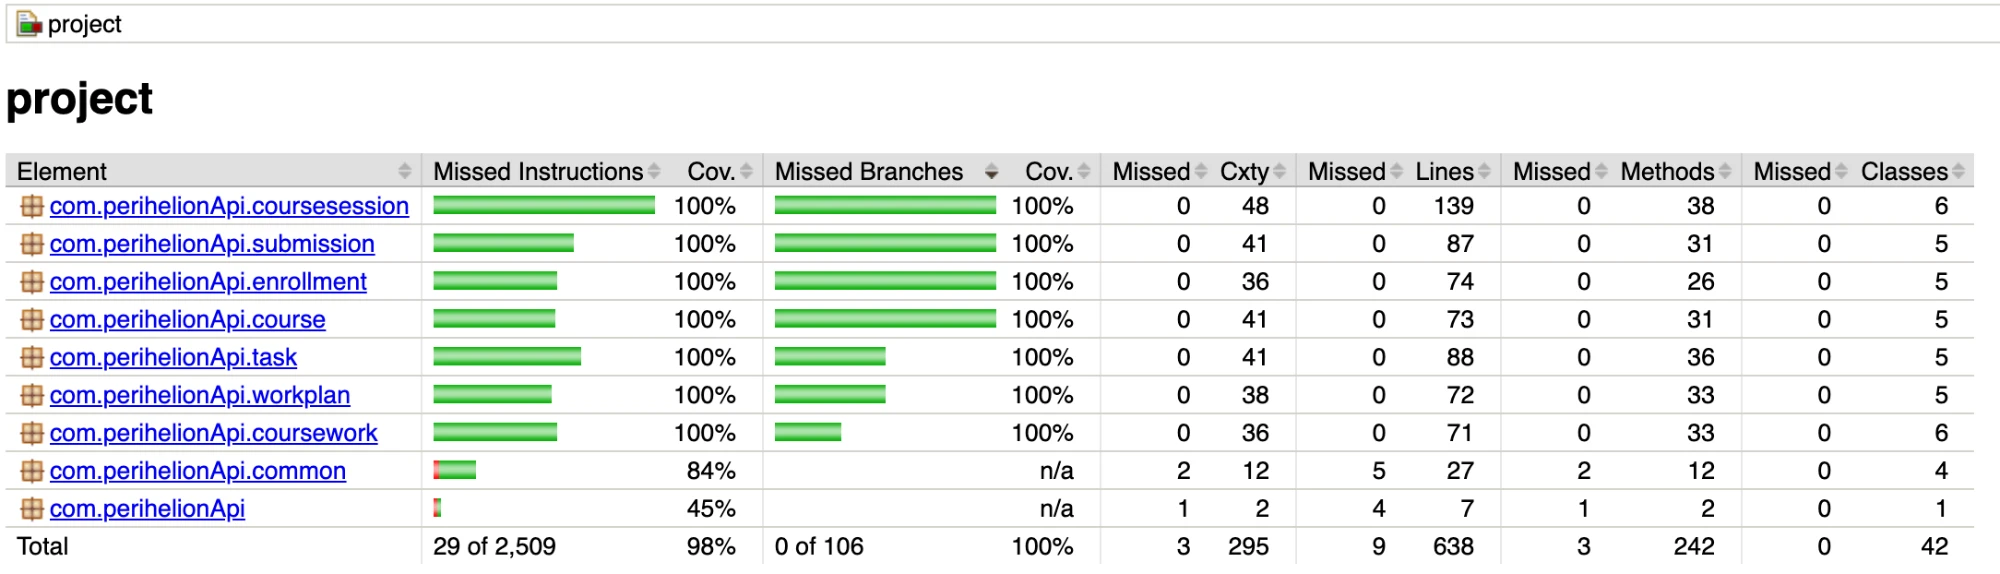
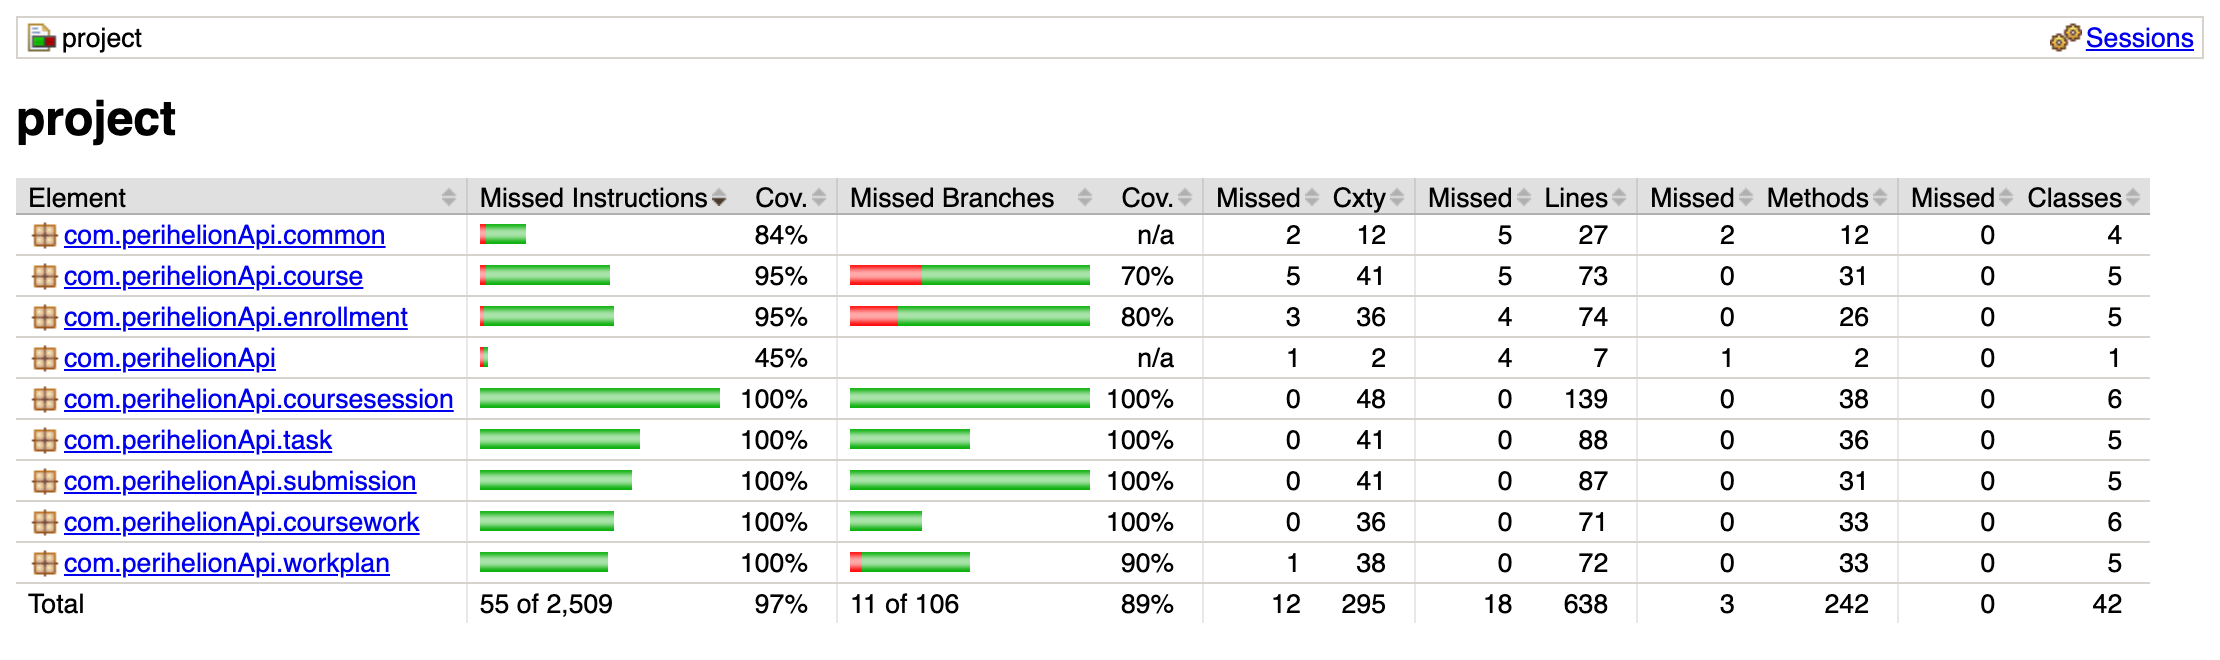
Correct README coverage to the clean-build figure
A clean ./mvnw clean verify of v1.0.0 reports 89.6% branch coverage (95 of 106 branches). The earlier 100% figure and screenshot came from a report that merged coverage data from earlier runs. Replace both with the clean-build result.

Changed region(s): [[0.0, 0.2666, 0.992, 0.9774], [0.0, 0.0, 1.0, 0.0889], [0.0, 0.1481, 0.093, 0.2369]]

diff --git a/README.md b/README.md
@@ -104,9 +104,9 @@ database, and the shared setup is in
 | Coverage XML / CSV | `target/site/jacoco/jacoco.xml` / `jacoco.csv` |
 
 The minimum required branch coverage is 55%; the current test suite reaches
-**100% branch coverage**.
+**89.6% branch coverage** (95 of 106 branches).
 
-![JaCoCo coverage report showing 100% branch coverage](docs/images/coverage-report.png)
+![JaCoCo coverage report showing 89.6% branch coverage](docs/images/coverage-report.png)
 
 API testing revealed **4 open bugs** that will be addressed: deleting a course
 that still has coursework or course sessions, and creating or moving a course
